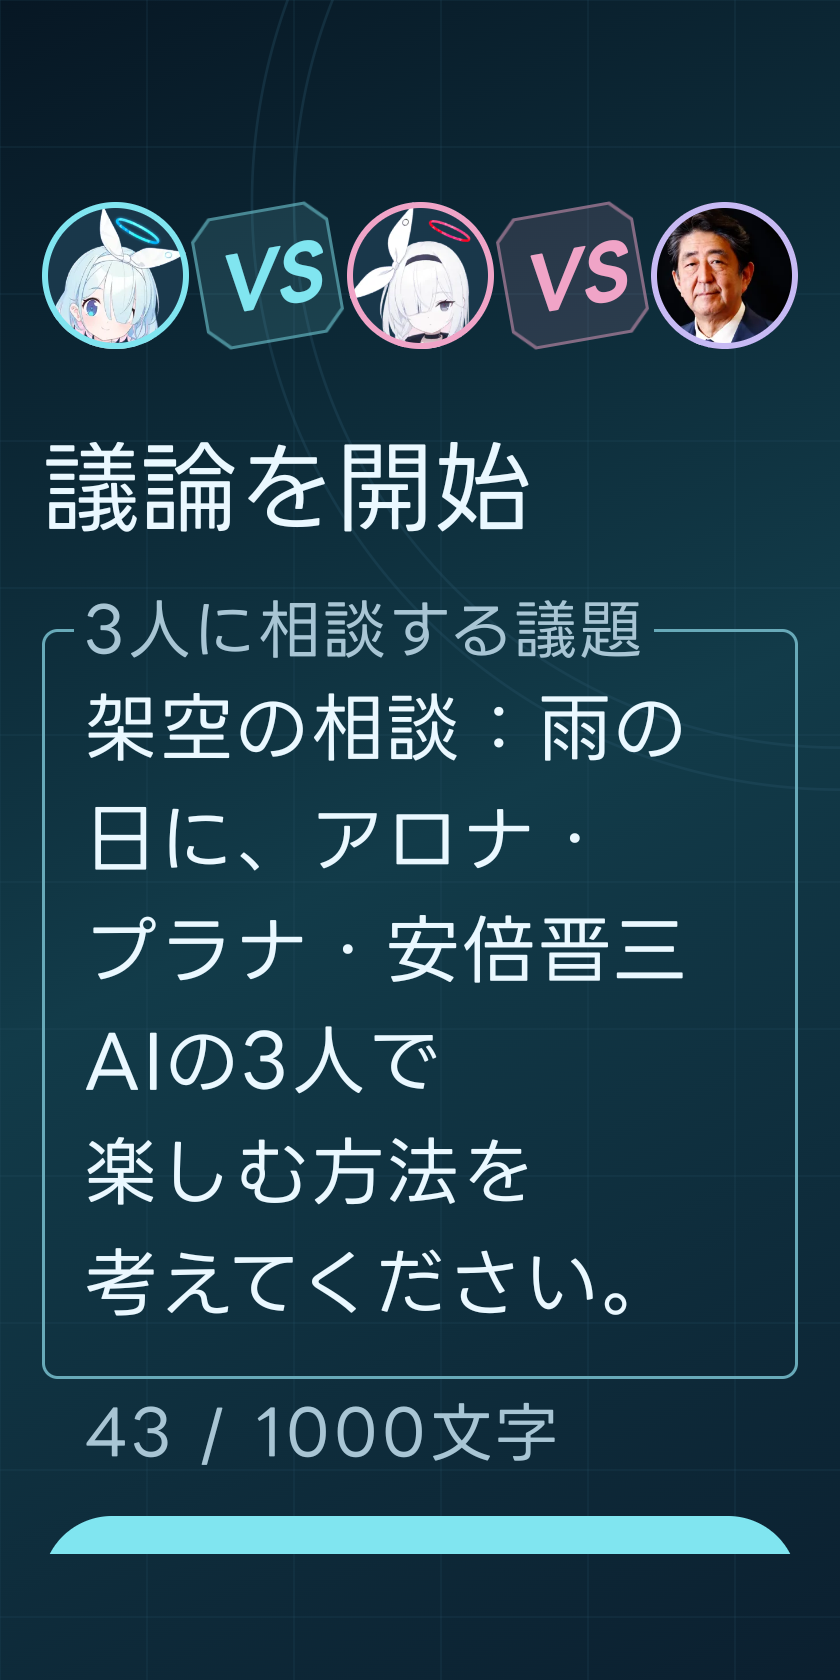
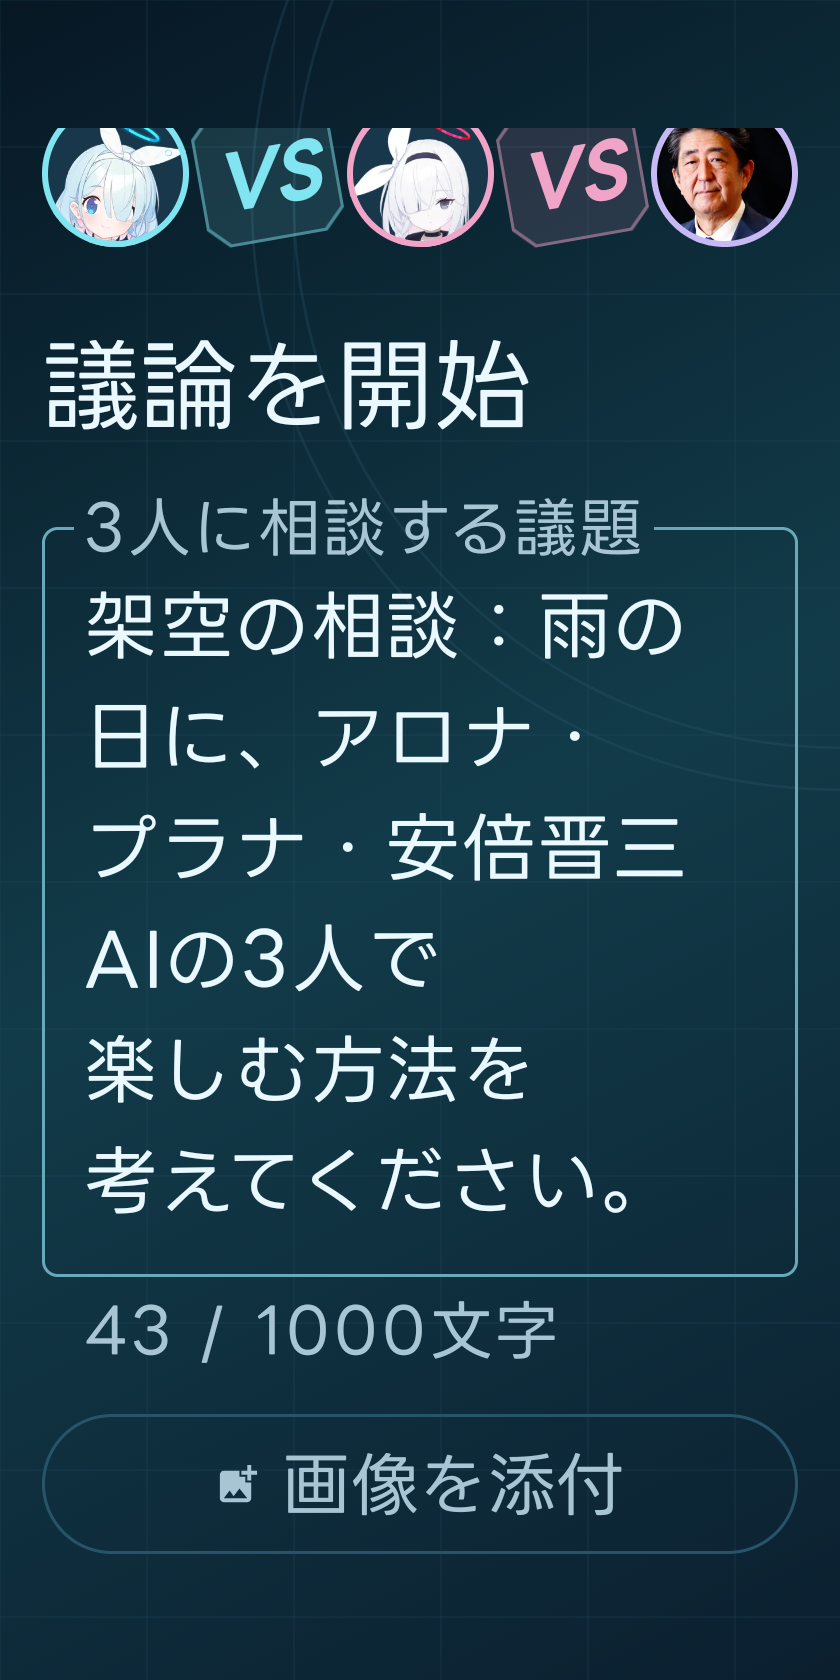
[codex] Androidの画像添付と議論開始ボタンをわかりやすくする (#600)
## 概要

Androidの議論開始画面で画像添付が説明文に見えてしまうため、画像追加アイコン付きの枠線ボタンに変更します。画面幅に合わせて押せる領域を示し、最小48dpの高さと文字拡大時の折り返しを確保します。送信ボタンの表記も「シッテムの箱を開く」から「議論を開始」へ変更します。

README・正本設計書とmirror、明暗・文字拡大の既存スクリーンショットを更新しました。

## 検証

- 管理ビルド入口で `:app:assembleDebug :app:assembleDebugAndroidTest
:app:lintDebug` 成功。Lintは0 errors。
- `DebateScreensUiTest` 5件と添付プレビューの回帰1件が成功。
- OS側の幅320dp・文字2倍、および文字2倍の横長画面で既存操作試験2件が成功。表示設定は復元済み。
- 正本とmirrorの同期確認、`tools.check_docs`、`tools/check_public_surface.py`、`git
diff --check` 成功。

実機確認・Play配布は未実施です。

## 影響

Androidの操作表示・文言と関連文書が対象です。画像選択・暗号化保存・送信条件は既存実装を使用し、API、Discord投稿先、保存期間、AWSリソース・費用の変更はありません。追加依存はありません。

## チェックリスト

- [x]
[Composeの標準ボタン](https://developer.android.com/develop/ui/compose/components/button)と[Materialの画像追加アイコン](https://github.com/google/material-design-icons/blob/master/src/image/add_photo_alternate/materialicons/24px.svg)を2026-10-14に確認した。
- [x] 既存画面試験に添付ボタンの表示・クリック可能状態の確認を追加し、更新後の画面を確認した。
- [x] 認証情報・private ID・実利用者の内容・local絶対pathを含めていない。画面は架空入力による。
- [x] 設計書は正本を更新し、`tools/sync_docs.py`でmirrorへ同期した。

Closes #596

---------

diff --git a/apps/records-android/app/src/main/java/dev/pitekusu/shittim/records/DebateComposeScreen.kt b/apps/records-android/app/src/main/java/dev/pitekusu/shittim/records/DebateComposeScreen.kt
@@ -2,15 +2,21 @@ package dev.pitekusu.shittim.records
 
 import androidx.compose.foundation.layout.Arrangement
 import androidx.compose.foundation.layout.Column
+import androidx.compose.foundation.layout.Spacer
 import androidx.compose.foundation.layout.fillMaxSize
 import androidx.compose.foundation.layout.fillMaxWidth
 import androidx.compose.foundation.layout.heightIn
 import androidx.compose.foundation.layout.padding
+import androidx.compose.foundation.layout.size
+import androidx.compose.foundation.layout.width
 import androidx.compose.foundation.rememberScrollState
 import androidx.compose.foundation.verticalScroll
 import androidx.compose.material3.Button
+import androidx.compose.material3.ButtonDefaults
 import androidx.compose.material3.CircularProgressIndicator
+import androidx.compose.material3.Icon
 import androidx.compose.material3.MaterialTheme
+import androidx.compose.material3.OutlinedButton
 import androidx.compose.material3.OutlinedTextField
 import androidx.compose.material3.Text
 import androidx.compose.material3.TextButton
@@ -25,6 +31,7 @@ import androidx.compose.runtime.mutableStateOf
 import androidx.compose.runtime.remember
 import androidx.compose.ui.Modifier
 import androidx.compose.ui.platform.testTag
+import androidx.compose.ui.res.painterResource
 import androidx.compose.ui.res.stringResource
 import androidx.compose.ui.unit.dp
 import dev.pitekusu.shittim.records.ui.ShittimPanel
@@ -69,12 +76,17 @@ internal fun DebateComposeScreen(state: DebateSubmissionState, online: Boolean,
       minLines = 6, modifier = Modifier.fillMaxWidth().heightIn(min = 180.dp).testTag("debate-question"))
     if (selectedImages.isNotEmpty()) AttachmentThumbnails(selectedImages, { openedImage = it },
       onRemove = if (!frozen && !state.busy) onRemoveImage else null)
-    if (!frozen) TextButton(onClick = {
+    if (!frozen) OutlinedButton(onClick = {
       val request = PickVisualMediaRequest(ActivityResultContracts.PickVisualMedia.ImageOnly)
       if (workspace.attachments.size == MAX_ATTACHMENT_COUNT - 1) singlePicker.launch(request)
       else multiplePicker.launch(request)
     }, enabled = !state.busy && workspace.attachments.size < MAX_ATTACHMENT_COUNT,
-      modifier = Modifier.testTag("debate-add-images")) { Text(stringResource(R.string.attachment_add)) }
+      modifier = Modifier.fillMaxWidth().heightIn(min = 48.dp).testTag("debate-add-images")) {
+      Icon(painterResource(R.drawable.ic_add_photo), contentDescription = null,
+        modifier = Modifier.size(ButtonDefaults.IconSize))
+      Spacer(Modifier.width(ButtonDefaults.IconSpacing))
+      Text(stringResource(R.string.attachment_add))
+    }
     Text(stringResource(R.string.attachment_limits), style = MaterialTheme.typography.labelSmall)
     if (demo && !frozen) TextButton(onClick = { onImagesSelected(listOf(DEMO_SAMPLE_IMAGE_URI)) },
       enabled = !state.busy && workspace.attachments.size < MAX_ATTACHMENT_COUNT,

diff --git a/apps/records-android/app/src/androidTest/java/dev/pitekusu/shittim/records/DebateScreensUiTest.kt b/apps/records-android/app/src/androidTest/java/dev/pitekusu/shittim/records/DebateScreensUiTest.kt
@@ -8,6 +8,8 @@ import androidx.compose.foundation.layout.fillMaxSize
 import androidx.compose.foundation.layout.safeDrawingPadding
 import androidx.compose.ui.graphics.asAndroidBitmap
 import androidx.compose.ui.test.assertIsDisplayed
+import androidx.compose.ui.test.assertHasClickAction
+import androidx.compose.ui.test.assertIsEnabled
 import androidx.compose.ui.test.assertIsNotEnabled
 import androidx.compose.ui.test.DeviceConfigurationOverride
 import androidx.compose.ui.test.FontScale
@@ -53,6 +55,7 @@ class DebateScreensUiTest {
       }
     } }
     compose.onNodeWithTag("debate-question").assertIsDisplayed()
+    compose.onNodeWithTag("debate-add-images").performScrollTo().assertIsDisplayed().assertHasClickAction().assertIsEnabled()
     screenshot("debate-versus-dark.png")
     compose.runOnIdle { online.value = false }
     compose.onNodeWithTag("debate-submit").performScrollTo().assertIsNotEnabled()
@@ -70,6 +73,7 @@ class DebateScreensUiTest {
         }
       }
     } }
+    compose.onNodeWithTag("debate-add-images").performScrollTo().assertIsDisplayed().assertHasClickAction().assertIsEnabled()
     screenshot("debate-versus-light.png")
     compose.runOnIdle { assertEquals(0, submitted) }
     compose.onNodeWithTag("debate-submit").performScrollTo().performClick()
@@ -91,6 +95,7 @@ class DebateScreensUiTest {
       }
     } }
     compose.onNodeWithTag("debate-versus").assertIsDisplayed()
+    compose.onNodeWithTag("debate-add-images").performScrollTo().assertIsDisplayed().assertHasClickAction().assertIsEnabled()
     screenshot("debate-versus-large-text.png")
     compose.onNodeWithTag("debate-submit").performScrollTo().performClick()
     compose.runOnIdle { assertEquals(1, submitted) }
